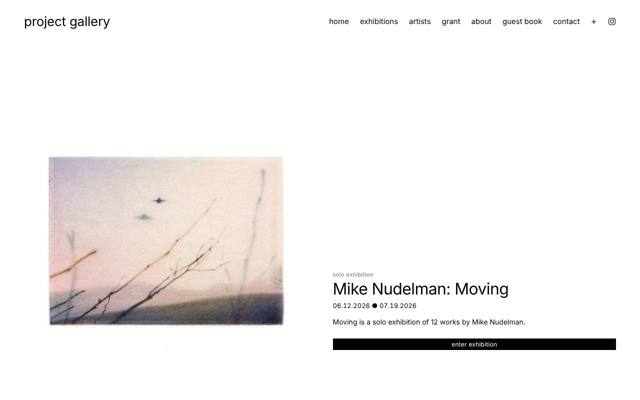
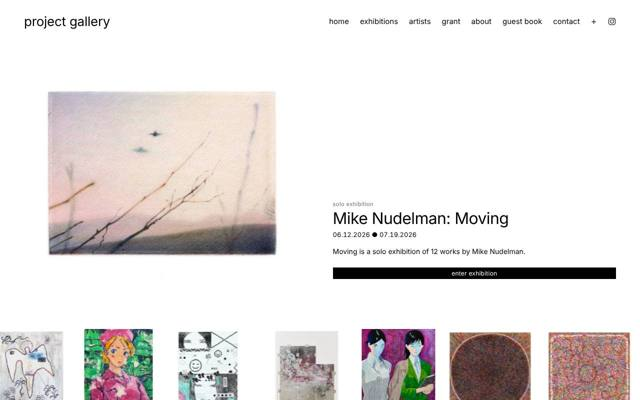
Exhibitions archive 2020-2025 (34 show cards with curators and artists) in a five-across grid; + turns to x on hover in the menu; collection tags each get their own colour
Claude-Session: https://claude.ai/code/session_01JDvyBS7JT6BmRY19jA3qLE

diff --git a/content.js b/content.js
@@ -196,12 +196,14 @@ const EXHIBITIONS_FEATURE = {
 //   kind:  "solo exhibition", "two-person exhibition" or "group exhibition"
 //   show:  the show's key in SHOWS if it has a page on this site (gives the little icons)
 //   link:  where "enter exhibition" goes ("#tdreade" for this site, or the old Squarespace address)
+//   note:  "curated by ..." / "juried by ..." (shown under the dates)
+//   image: the spotlight picture; leave "" for a text-only card until you add one
 //   artists: names for group shows, shown as "including artists ..."
 const SHOW_CARDS = {
   "tdreade": {
     kind: "solo exhibition",
     title: "TD Reade: cancel my prayer",
-    year: "2025",
+    year: "2025", note: "",
     dates: "10.05.2025 – 11.05.2025",
     image: "images/td-reade/heavy-misfortunes.jpg",
     description: "cancel my prayer features 12 original artworks from Melbourne based artist TD Reade. His paintings foreground figures caught within the choreography of social performance, where ordinary moments become sites of latent tension.",
@@ -219,6 +221,204 @@ const SHOW_CARDS = {
     link: "#mike-nudelman",
     show: "mike-nudelman",
     artists: []
+  },
+  "ryker-woodward": {
+    kind: "solo exhibition", title: "Ryker Woodward: Nostalgic Signifiers From Digital Realms", year: "2024", dates: "08.01.2024 – 09.15.2024", note: "",
+    image: "", description: "",
+    link: "https://project-gallery.com/ryker-woodward", show: "",
+    artists: []
+  },
+  "gitte-maria-moller": {
+    kind: "solo exhibition", title: "Gitte Maria Möller: Running away forever", year: "2024", dates: "05.23.2024 – 06.30.2024", note: "",
+    image: "", description: "",
+    link: "https://project-gallery.com/gitte-maria-moller", show: "",
+    artists: []
+  },
+  "lumierebelge": {
+    kind: "solo exhibition", title: "lumierebelge, lineage mayhem.", year: "2024", dates: "04.17.2024 – 05.22.2024", note: "",
+    image: "", description: "",
+    link: "https://project-gallery.com/lumierebelge", show: "",
+    artists: []
+  },
+  "tao-lin": {
+    kind: "solo exhibition", title: "Mandalas: Tao Lin", year: "2024", dates: "03.16.2024 – 04.16.2024", note: "",
+    image: "", description: "",
+    link: "https://project-gallery.com/tao-lin", show: "",
+    artists: []
+  },
+  "person-place-thing": {
+    kind: "group exhibition", title: "Person, Place, or Thing", year: "2024", dates: "02.01.2024 – 03.15.2024", note: "juried by Cynthia Cruz",
+    image: "", description: "",
+    link: "https://project-gallery.com/person-place-thing", show: "",
+    artists: ["Jennifer Amadeo-Holl", "Wai Yi Chung", "Megan Du", "Dimitra Gkoutzou", "Jiacun Li", "Keshawna Logan", "Andrew James McKay", "James Niwat Moore", "Sheila Rennick", "Christine Schmitt", "Olivia Springberg", "Reilly Stasienko", "Norah Stone", "Parker Lily Tuson-Morse", "Melissa Wallen", "minzhi zheng", "DW Zinsser"]
+  },
+  "chaeri-kim": {
+    kind: "solo exhibition", title: "Love, Light, Gravity: Chaeri Kim", year: "2023", dates: "12.19.2023 – 01.19.2024", note: "",
+    image: "", description: "",
+    link: "https://project-gallery.com/chaeri-kim", show: "",
+    artists: []
+  },
+  "grace-nkem": {
+    kind: "solo exhibition", title: "Grace Nkem: CLOWN WORLD", year: "2023", dates: "11.18.2023 – 12.18.2023", note: "",
+    image: "", description: "",
+    link: "https://project-gallery.com/grace-nkem", show: "",
+    artists: []
+  },
+  "nutsa-gogaladze": {
+    kind: "solo exhibition", title: "I walked a lot to arrive in this garden: Nutsa Gogaladze", year: "2023", dates: "10.17.2023 – 11.17.2023", note: "",
+    image: "", description: "",
+    link: "https://project-gallery.com/nutsa-gogaladze", show: "",
+    artists: []
+  },
+  "artist-curator": {
+    kind: "group exhibition", title: "Artist/Curator", year: "2023", dates: "09.08.2023 – 10.16.2023", note: "",
+    image: "", description: "",
+    link: "https://project-gallery.com/artist-curator", show: "",
+    artists: ["Karen Fitzgerald", "Cary Hulbert", "Casey Jex Smith", "Adam Liam Rose", "Cara Lynch", "Farah Mohammad", "Kellyann Monaghan", "Trinity Lester", "Libbi Ponce"]
+  },
+  "ara-hao": {
+    kind: "solo exhibition", title: "Nourish Life Anonymously: Ara Hao", year: "2023", dates: "08.07.2023 – 09.07.2023", note: "",
+    image: "", description: "",
+    link: "https://project-gallery.com/ara-hao", show: "",
+    artists: []
+  },
+  "inimitable": {
+    kind: "group exhibition", title: "Inimitable", year: "2023", dates: "06.30.2023 – 07.30.2023", note: "juried by Casey Jex Smith",
+    image: "", description: "",
+    link: "https://project-gallery.com/inimitable", show: "",
+    artists: ["Hanimal-Mario Alvarez", "Amelie Barnathan", "Jeffrey Beebe", "Darien Bird", "Caroline Blum", "Shea Chang", "Katya Labowe-Stoll", "Jiacun Li", "Emily Loughlin", "Anwar Mahdi", "carrie R", "Jenna Ransom", "Teh-Hsuan (Momo) Chen", "Jen Dwyer", "Jared Freschman", "Tim Furey", "Austin Joseph Gregory", "Marilyn Holsing", "Henry Rosenberg", "Alfred Rosenbluth", "Todd Stong", "Brian Uhl", "Mo Vleeshouwers", "Claire Downes Whitehurst", "DW Zinsser"]
+  },
+  "filip-lav": {
+    kind: "solo exhibition", title: "Gentle Doom: Filip Lav", year: "2023", dates: "06.01.2023 – 06.29.2023", note: "",
+    image: "", description: "",
+    link: "https://project-gallery.com/filip-lav", show: "",
+    artists: []
+  },
+  "hearts-of-palm": {
+    kind: "group exhibition", title: "Hearts of Palm", year: "2023", dates: "05.15.2023 – 06.15.2023", note: "",
+    image: "", description: "",
+    link: "https://project-gallery.com/hearts-of-palm", show: "",
+    artists: ["Ben Browne", "Keira Curwen", "Gabriella Grill", "Erik Hougen", "Cary Hulbert", "TianTian Lou", "Jeremy Ruiz", "Saloni Shah", "Tom Smith", "Sarika Sugla", "Orli Swergold"]
+  },
+  "neurosis": {
+    kind: "group exhibition", title: "Neurosis", year: "2023", dates: "01.15.2023 – 03.15.2023", note: "curated by Bethelihem Gebresilasie",
+    image: "", description: "",
+    link: "https://project-gallery.com/neurosis", show: "",
+    artists: ["Yerrie Choo", "Cecelia Condit", "Seth Cosford", "Erica Eyres", "Starkey Fossgreen", "Simon Floris", "Joana Azevedo Rodrigues", "Liev Sibilla", "Léa Tissot-Laura", "Anna Sougy", "Amber Tutwiler", "Klara Vertes"]
+  },
+  "first-note": {
+    kind: "group exhibition", title: "First Note", year: "2023", dates: "01.15.2023 – 03.15.2023", note: "juried by Faust Luo",
+    image: "", description: "",
+    link: "https://project-gallery.com/first-note", show: "",
+    artists: ["Hyoju Cheon", "Matt Coombs", "Misha Davydov", "Maria Haag", "Andy N Li", "Crystal Marshall", "Steven Pennett", "Sarah Sipling"]
+  },
+  "betwixt-and-between": {
+    kind: "group exhibition", title: "betwixt and between", year: "2022", dates: "11.01.2022 – 12.15.2022", note: "juried by Trinity Lester and Cary Hulbert",
+    image: "", description: "",
+    link: "https://project-gallery.com/betwixt-and-between", show: "",
+    artists: ["Jordin Alanis", "Santina Amato", "Katina Bitsicas", "Shelby Corso", "Vanezza Cruz", "Marilla Cubberley", "Julia Curran", "Daisy Diamond", "Jan Dickey", "John Brendan Guinan", "Zach Hill", "Peishan Huang", "Doi Kim", "Cydney M Lewis", "Michael Saunders", "Ayshia Taskin", "Andy Van Dinh", "Til Will", "Hayley Youngs", "Daniela Lucato", "Farrell Mason-Brown", "Casey Neumann", "Michelle Paterok", "Ophélie Paris", "Katrina Slavik", "Assunta Saulle"]
+  },
+  "unfolding-pattern": {
+    kind: "two-person exhibition", title: "Unfolding Pattern: Saloni Shah and Tiantian Lou", year: "2022", dates: "10.01.2022 – 11.30.2022", note: "",
+    image: "", description: "",
+    link: "https://project-gallery.com/unfolding-pattern", show: "",
+    artists: []
+  },
+  "new-light": {
+    kind: "group exhibition", title: "New Light", year: "2022", dates: "07.07.2022 – 08.31.2022", note: "curated by Mills Brown",
+    image: "", description: "",
+    link: "https://project-gallery.com/new-light", show: "",
+    artists: ["Andrea Bagdon", "MK Bailey", "Sarah Baldwin", "Asha Elana Casey", "Mandy Cooper", "Khadija Jahmila", "Katrina Jurjans", "Isabel Manalo", "Sarah Norman", "Jessica Rubin", "Julie-Ann Simpson", "Salomé Wu"]
+  },
+  "wet-dream": {
+    kind: "group exhibition", title: "wet dream", year: "2022", dates: "06.15.2022 – 07.15.2022", note: "curated by Libbi Ponce",
+    image: "", description: "",
+    link: "https://project-gallery.com/wet-dream", show: "",
+    artists: ["Rebecca Arp", "Basak Kilicbeyli", "Haley Darya Parsa", "Srishti Dass", "Yuquan Duan", "JB Fry", "Eriko Hattori", "Tiffany Heng Hui Lee", "Chris Horner", "Chris LaGow", "Marianne L Walker", "Moss YLOC"]
+  },
+  "syncretic": {
+    kind: "group exhibition", title: "Syncretic: Religion and Ritual in Diaspora", year: "2022", dates: "05.02.2022 – 06.30.2022", note: "curated by Dante Migone-Ojeda",
+    image: "", description: "",
+    link: "https://project-gallery.com/syncretic", show: "",
+    artists: ["Priscilla Aleman", "Ruhee Maknojia", "Dante Migone-Ojeda", "Shani Strand", "A young Yu"]
+  },
+  "splinters": {
+    kind: "group exhibition", title: "Splinters in the ongoing normal", year: "2022", dates: "03.15.2022 – 04.15.2022", note: "",
+    image: "", description: "",
+    link: "https://project-gallery.com/splinters-in-the-ongoing-normal", show: "",
+    artists: ["Aurora Abzug", "Louisa Armbrust", "Julia Baroni", "Emily Bartolone", "Katina Bitsicas", "Sunny Moxin Chen", "Annie Chen Ziyao", "Kelly Chuning", "Larkin Cook", "Ana Maria Farina", "Robyn A. Frank", "Pauline Galiana", "Kristi Gallup", "Sara Hess", "Megan Adams Irving", "Bonam Kim", "Christine Lee", "Em Miller", "Di Miranda", "Judith Mullen", "Aaron Nemec", "Megan Nugroho", "Ami Park", "Lily Prince", "PlantBotGenetics", "Abby Robinson", "Hulievych Serhii", "Malu Tan", "Siyuan Tan", "Theo Trotter", "Curtis Widem", "William Glaser Wilson", "Lizzie Zelter"]
+  },
+  "erika-shiba": {
+    kind: "solo exhibition", title: "Mentalscapes: Erika Shiba", year: "2022", dates: "03.03.2022 – 04.29.2022", note: "",
+    image: "", description: "",
+    link: "https://project-gallery.com/erika-shiba", show: "",
+    artists: []
+  },
+  "we-are-still-in-eden": {
+    kind: "group exhibition", title: "We Are Still in Eden", year: "2022", dates: "01.07.2022 – 02.28.2022", note: "curated by KellyAnn Monaghan",
+    image: "", description: "",
+    link: "https://project-gallery.com/we-are-still-in-eden", show: "",
+    artists: ["Morgan Adler", "Anne Canfield", "Laura Colomb", "Yun-Fei Ji", "Nicola López", "Laini Nemett", "Sarah Roche", "Hiro Sakaguchi", "Laura Von Rosk", "Virginia Wagner"]
+  },
+  "if-fluid-was-a-song": {
+    kind: "group exhibition", title: "If fluid was a song…", year: "2022", dates: "12.15.2021 – 01.15.2022", note: "curated by Adama Delphine Fawundu",
+    image: "", description: "",
+    link: "https://project-gallery.com/if-fluid-was-a-song", show: "",
+    artists: ["Nouran Husain Alhazmi", "Leslie Anne", "Paul Ayihawu", "Frank Boyce", "Kyle Choy", "Lisa A Fanning", "Jessica Parker Foley", "Katerina Ganchak", "Vinay Hira", "Ruth Jeyaveeran", "Fei Ji", "Saskia Kahn", "Lena Krashevka", "C. Pazia Mannella", "Ashley Mclean", "Aliyah Mickens", "James Morton", "Chantal Powell", "Phoenix Robles", "Cyle Warner"]
+  },
+  "time-wont-tell": {
+    kind: "group exhibition", title: "Time Won’t Tell", year: "2021", dates: "11.01.2021 – 12.30.2021", note: "curated by Farah Mohammad",
+    image: "", description: "",
+    link: "https://project-gallery.com/time-wont-tell", show: "",
+    artists: ["Jovita Alvares", "Ivana Carman", "Kevin Claiborne", "Noga Cohen", "Takuji Hamanaka", "Melissa Joseph", "Lucy Kim", "Ruhee Maknojia", "Cheryl Mukherji", "Luján Perez", "Hafsa Riaz", "Keli Safia Maksud", "Shahzia Sikander (LNCPS)"]
+  },
+  "spliced-energy": {
+    kind: "group exhibition", title: "Spliced Energy", year: "2021", dates: "09.01.2021 – 10.30.2021", note: "curated by Karen Fitzgerald",
+    image: "", description: "",
+    link: "https://project-gallery.com/spliced-energy", show: "",
+    artists: ["Deborah Barlow", "Daniel Berlin (Van Deb Editions)", "Ken Buhler (Van Deb Editions)", "Michael Dal Cerro", "Nancy Cohen (Van Deb Editions)", "Patricia Dahlman", "Caroline Golden", "Rachel Goldsmith", "Larry Rushing", "Kandi Spindler", "Priscilla Stadler", "Kathleen Velo", "Natalie Woodson", "Dudley Zopp", "Orestes Gonzalez", "Hannah Kerin", "Susan Knight", "Mahnoor Nasir Khan", "Saroj Kumar", "Mary Pinto", "Eleanor Rahim", "Winn Rea"]
+  },
+  "transcendental-states": {
+    kind: "group exhibition", title: "Transcendental States", year: "2021", dates: "09.15.2021 – 10.15.2021", note: "juried by Adam Liam Rose",
+    image: "", description: "",
+    link: "https://project-gallery.com/transcendental-states", show: "",
+    artists: ["Elliot Avis", "Loren Eiferman", "Jeong Hur", "Kieren Jeane", "Sidney Mullis", "Nola Parker", "Kelsey Skordal", "Chelsea Wrightson"]
+  },
+  "illuminated": {
+    kind: "group exhibition", title: "Illuminated", year: "2021", dates: "07.09.2021 – 08.30.2021", note: "curated by Trinity Lester and Cary Hulbert",
+    image: "", description: "",
+    link: "https://project-gallery.com/illuminated", show: "",
+    artists: ["Alina Birkner", "Isabel Cavenecia", "Jeffrey Dell", "Megan Foster", "Gyun Hur", "Seo Kim", "Lucy Lord Campana", "Jasmine Murrell", "Robert Rauschenberg (ULAE)", "Elizabeth Shull", "Sarah Sze (LNCPS)", "Catalina Viejo Lopez de Roda", "Paula Wilson"]
+  },
+  "people-places-things": {
+    kind: "group exhibition", title: "People Places Things", year: "2021", dates: "06.15.2021 – 07.15.2021", note: "juried by Samantha Rippner",
+    image: "", description: "",
+    link: "https://project-gallery.com/people-places-things", show: "",
+    artists: ["Adina Andrus", "Aharon B. Cohen", "Alex Hutton", "Alexandra Chiou", "Alexis Hill", "Anna Sorokina", "Ashley Houghton", "Bridey McGlynn", "Dalila Sanabria", "Danqi Cai", "Dante Migone-Ojeda", "David Murgio", "Deborah Druick", "Diane Pribojan", "Elizabeth Riley", "Ellen Weider", "Fábián Emőke", "Gary Cruz", "Morgan Rose Free", "Naho Taruishi", "Omar Reyna", "Rayden Lawrence", "Roberto Jackson Harrington", "Vy Trịnh", "William Glaser Wilson", "Hannah Duggan", "Heather Drayzen", "Heeseung Nam", "Hui Tian", "J Myszka Lewis", "Jennifer Joanou", "Julia Forrest", "Lee Miller", "Mike Dowley"]
+  },
+  "the-alternative-states": {
+    kind: "group exhibition", title: "The Alternative States", year: "2021", dates: "05.03.2021 – 06.30.2021", note: "curated by Arina Novak",
+    image: "", description: "",
+    link: "https://project-gallery.com/the-alternative-states", show: "",
+    artists: ["Amy Bravo", "Cecily Brown (LNCPS)", "Kirill Burygin", "Daria Denisova", "Alisa Gvozdeva", "Luis Gutierrez", "Eric Kogan", "Erica Mao", "Brittany Miller", "Lucía Rodríguez", "Alina Vinogradova", "Alexey Yakovlev", "Sofia Yalalova", "Marsel Yalalov", "Yuri Yuan"]
+  },
+  "multitudes": {
+    kind: "group exhibition", title: "Multitudes", year: "2021", dates: "03.01.2021 – 04.30.2021", note: "curated by Jade Hoyer",
+    image: "", description: "",
+    link: "https://project-gallery.com/multitudes", show: "",
+    artists: ["Paloma Barhaugh-Bordas", "Julie Buffalohead (Highpoint Editions)", "Andrea Carlson (Highpoint Editions)", "Aaron Coleman", "Zachary Carlisle Davidson", "Ellen Gallagher (Two Palms)", "Toba Khedoori (Gemini G.E.L.)", "Alison Saar (Tandem Press)", "Haley Takahashi"]
+  },
+  "eternal-flame": {
+    kind: "group exhibition", title: "Eternal Flame", year: "2021", dates: "01.01.2021 – 02.28.2021", note: "curated by Cara Lynch",
+    image: "", description: "",
+    link: "https://project-gallery.com/eternal-flame", show: "",
+    artists: ["Lauren Skelly Bailey", "Rachel M Barron", "Valeria Divinorum & Flavia Bertorello", "William Cordova (LNCPS)", "Joanna Cortez", "Rosemarie Fiore", "Carson Fox", "Josephine Halvorson", "Juan Hinojosa", "Sandy Williams IV", "Susanna Koetter", "Dante Migone-Ojeda", "Kellyann Monaghan", "Steve Reinke", "Rachel Stern"]
+  },
+  "in-the-cool-of-the-evening": {
+    kind: "group exhibition", title: "In the Cool of the Evening", year: "2020", dates: "10.30.2020 – 12.30.2020", note: "curated by Cary Hulbert and Trinity Lester",
+    image: "", description: "",
+    link: "https://project-gallery.com/in-the-cool-of-the-evening", show: "",
+    artists: ["Nathan Catlin", "Trenton Doyle Hancock", "Cara Lynch", "Erica Mao", "Lina Puerta", "Jennifer Schmidt", "Kiki Smith", "Craig Zammiello"]
   }
 };
 
@@ -242,7 +442,7 @@ const TICKER = [
 ];
 
 // THE ARCHIVE LIST under "exhibitions": card keys, newest first.
-const ARCHIVE_LIST = ["tdreade"];
+const ARCHIVE_LIST = ["tdreade", "ryker-woodward", "gitte-maria-moller", "lumierebelge", "tao-lin", "person-place-thing", "chaeri-kim", "grace-nkem", "nutsa-gogaladze", "artist-curator", "ara-hao", "inimitable", "filip-lav", "hearts-of-palm", "neurosis", "first-note", "betwixt-and-between", "unfolding-pattern", "new-light", "wet-dream", "syncretic", "splinters", "erika-shiba", "we-are-still-in-eden", "if-fluid-was-a-song", "time-wont-tell", "spliced-energy", "transcendental-states", "illuminated", "people-places-things", "the-alternative-states", "multitudes", "eternal-flame", "in-the-cool-of-the-evening"];
 
 // NEWSLETTER: offered after someone signs the guest book.
 // Paste the sign-up form address from your newsletter service here when you have one.

diff --git a/index.html b/index.html
@@ -36,7 +36,11 @@ nav { display: flex; align-items: center; gap: 22px; }
 nav a { font-size: 15px; line-height: 1; transition: text-shadow .2s; }
 nav a.plus:hover { text-shadow: var(--glow); }
 nav > a.typed-link { display: inline-block; text-align: left; white-space: nowrap; }
-nav a.plus { font-size: 19px; font-weight: 300; }
+nav a.plus { font-size: 19px; font-weight: 300; display: inline-grid; }
+nav a.plus span { grid-area: 1 / 1; text-align: center; transition: opacity .15s; }
+nav a.plus .px-x { opacity: 0; }
+nav a.plus:hover .px-plus, nav a.plus:focus-visible .px-plus { opacity: 0; }
+nav a.plus:hover .px-x, nav a.plus:focus-visible .px-x { opacity: 1; }
 .ig { display: inline-flex; align-items: center; }
 .ig img { width: 16px; height: 16px; display: block; }
 .ig:hover img { filter: drop-shadow(0 0 3px rgba(0, 0, 0, 0.5)); }
@@ -253,16 +257,21 @@ body.arriving #view-show { animation: arrive 1.4s cubic-bezier(.16, .8, .3, 1) b
 @media (prefers-reduced-motion: reduce) { .ticker { overflow-x: auto; } .ticker-track { animation: none; } }
 .archive-wrap { margin-top: clamp(72px, 10vh, 120px); }
 .archive-head { font-size: 13px; }
-.arch-year { display: grid; grid-template-columns: 140px 1fr; gap: 24px; padding: 18px 0; border-bottom: 1px solid #e6e6e6; }
+.arch-year { display: grid; grid-template-columns: 90px 1fr; gap: 24px; padding: 18px 0; border-bottom: 1px solid #e6e6e6; }
 .arch-year > span { font-size: 13px; font-variant-numeric: tabular-nums; }
-.arch-items { display: grid; gap: 14px; }
-.arch-item { background: none; border: 0; padding: 0; text-align: left; font-family: var(--font); color: var(--ink); cursor: pointer; display: grid; gap: 2px; }
-.arch-item span:first-child { font-size: 15px; transition: text-shadow .2s; }
+.arch-items { display: grid; grid-template-columns: repeat(5, minmax(0, 1fr)); gap: 22px 24px; align-items: start; }
+.arch-item { background: none; border: 0; padding: 0; text-align: left; min-width: 0; overflow-wrap: anywhere; font-family: var(--font); color: var(--ink); cursor: pointer; display: grid; gap: 2px; }
+.arch-item span:first-child { font-size: 14px; line-height: 1.3; transition: text-shadow .2s; }
 .arch-item span:last-child { font-size: 12px; color: var(--muted); font-variant-numeric: tabular-nums; }
 .arch-item:hover span:first-child { text-shadow: var(--glow); }
 /* show cards: spotlight image takes most of the card */
 .card.wide { grid-template-columns: 1.45fr 1fr; width: min(1100px, 100%); }
 .card.wide .card-img img { max-height: calc(100vh - 140px); object-fit: contain; object-position: left center; }
+.card-note { margin: -4px 0 10px; font-size: 12px; color: var(--muted); }
+.card-note:empty { display: none; }
+.card.noimg { grid-template-columns: 1fr; width: min(620px, 100%); }
+.card.noimg .card-img { display: none; }
+.card.noimg .card-text { padding-top: 12px; }
 .card-icons { display: flex; flex-wrap: wrap; gap: 6px; margin-top: 14px; }
 .card-icons:empty { display: none; }
 .card-icons img { width: 28px; height: 28px; object-fit: cover; display: block; }
@@ -302,7 +311,8 @@ footer a:hover { text-shadow: var(--glow); }
   .gb-form, .gb-fields { grid-template-columns: 1fr; }
   .gb-top { flex-direction: column; align-items: flex-start; }
   .ex-feature, .card.wide { grid-template-columns: 1fr; }
-  .arch-year { grid-template-columns: 70px 1fr; }
+  .arch-year { grid-template-columns: 1fr; gap: 12px; }
+  .arch-items { grid-template-columns: repeat(2, minmax(0, 1fr)); }
   .pair { grid-template-columns: 1fr; padding: 0; gap: 64px; }
   .work.right .work-image, .work.right .work-caption { grid-column: auto; grid-row: auto; }
   .works { gap: 96px; }
@@ -323,7 +333,7 @@ footer a:hover { text-shadow: var(--glow); }
     <a href="#about" data-view="about">about</a>
     <a href="#guestbook" data-view="guestbook">guest book</a>
     <a href="#contact" data-view="contact">contact</a>
-    <a href="#collection" class="plus" data-view="collection" aria-label="my collection" title="my collection">+</a>
+    <a href="#collection" class="plus" data-view="collection" aria-label="my collection" title="my collection"><span class="px-plus">+</span><span class="px-x" aria-hidden="true">×</span></a>
     <a class="ig" id="ig" href="https://www.instagram.com/projectgallery/" target="_blank" rel="noopener" aria-label="project gallery on Instagram"></a>
   </nav>
 </header>
@@ -454,6 +464,7 @@ footer a:hover { text-shadow: var(--glow); }
       <p class="card-label" id="card-label">solo exhibition</p>
       <h2 class="show-title" id="card-title"></h2>
       <p class="dates" id="card-dates"></p>
+      <p class="card-note" id="card-note"></p>
       <p class="desc" id="card-desc"></p>
       <a class="enter" id="card-enter">enter exhibition</a>
       <div class="card-icons" id="card-icons"></div>
@@ -556,6 +567,8 @@ function renderExhibitionsPage() {
   // archive list by year
   const byYear = new Map();
   ARCHIVE_LIST.forEach(k => { const c = SHOW_CARDS[k]; if (!c) return; if (!byYear.has(c.year)) byYear.set(c.year, []); byYear.get(c.year).push(k); });
+  const start = k => { const m = /(\d{2})\.(\d{2})\.(\d{4})/.exec(SHOW_CARDS[k].dates || ""); return m ? m[3] + m[1] + m[2] : ""; };
+  byYear.forEach(keys => keys.sort((a, b) => start(b).localeCompare(start(a))));
   document.getElementById("ex-archive").innerHTML = [...byYear].sort((a, b) => b[0] - a[0]).map(([y, keys]) =>
     `<div class="arch-year"><span>${esc(y)}</span><div class="arch-items">${keys.map(k =>
       `<button class="arch-item" data-card="${esc(k)}"><span>${esc(SHOW_CARDS[k].title)}</span><span>${esc(SHOW_CARDS[k].dates)}</span></button>`).join("")}</div></div>`).join("");
@@ -565,7 +578,7 @@ function openShowCard(key) {
   const c = SHOW_CARDS[key]; if (!c) return;
   const sh = SHOWS[c.show];
   openCard({
-    label: c.kind, image: c.image, title: c.title, dates: c.dates, description: c.description, link: c.link,
+    label: c.kind, image: c.image, title: c.title, dates: c.dates, note: c.note, description: c.description, link: c.link,
     wide: true,
     icons: sh ? sh.works.map(w => w.image) : [],
     artists: c.artists || []
@@ -699,35 +712,34 @@ function workInfo(saved) {
   const w = SHOWS[key] && SHOWS[key].works[Number(idx)];
   return w ? { ...saved, ...w, artist: SHOWS[key].artist, showTitle: SHOWS[key].title, status: SHOWS[key].status || "past show" } : saved;
 }
-// pick a colour from each saved picture, kept dark enough to read
-const colourCache = {};
-function pickColour(src) {
-  if (colourCache[src]) return Promise.resolve(colourCache[src]);
+// pick several colours from each saved picture (kept dark enough to read)
+const paletteCache = {};
+function pickColours(src) {
+  if (paletteCache[src]) return Promise.resolve(paletteCache[src]);
   return new Promise(res => {
     const im = new Image();
     im.onload = () => {
       try {
-        const cv = document.createElement("canvas"); cv.width = cv.height = 32;
-        const cx = cv.getContext("2d"); cx.drawImage(im, 0, 0, 32, 32);
-        const d = cx.getImageData(0, 0, 32, 32).data;
-        let best = null, bestScore = -1;
+        const cv = document.createElement("canvas"); cv.width = cv.height = 40;
+        const cx = cv.getContext("2d"); cx.drawImage(im, 0, 0, 40, 40);
+        const d = cx.getImageData(0, 0, 40, 40).data, bins = {};
         for (let i = 0; i < d.length; i += 4) {
           const r = d[i] / 255, g = d[i + 1] / 255, b = d[i + 2] / 255;
-          const mx = Math.max(r, g, b), mn = Math.min(r, g, b), l = (mx + mn) / 2;
-          const sat = mx === mn ? 0 : (mx - mn) / (1 - Math.abs(2 * l - 1));
-          const score = sat * (1 - Math.abs(l - 0.5));
-          if (score > bestScore) { bestScore = score; best = [r, g, b]; }
+          const mx = Math.max(r, g, b), mn = Math.min(r, g, b), l = (mx + mn) / 2, dd = mx - mn;
+          if (!dd) continue;
+          const sat = dd / (1 - Math.abs(2 * l - 1));
+          if (sat < 0.25 || l < 0.12 || l > 0.9) continue;
+          let h = mx === r ? ((g - b) / dd) % 6 : mx === g ? (b - r) / dd + 2 : (r - g) / dd + 4; h = (h * 60 + 360) % 360;
+          const bin = Math.round(h / 24);                     // 15 hue families
+          bins[bin] = bins[bin] || { n: 0, h: 0, s: 0 };
+          bins[bin].n += sat; bins[bin].h += h * sat; bins[bin].s += sat * sat;
         }
-        // convert to hsl and hold lightness in a readable range
-        const [r, g, b] = best, mx = Math.max(r, g, b), mn = Math.min(r, g, b);
-        let h = 0; const l = (mx + mn) / 2, dd = mx - mn;
-        if (dd) { h = mx === r ? ((g - b) / dd) % 6 : mx === g ? (b - r) / dd + 2 : (r - g) / dd + 4; h *= 60; if (h < 0) h += 360; }
-        const sat = dd ? Math.min(0.85, Math.max(0.45, dd / (1 - Math.abs(2 * l - 1)))) : 0;
-        colourCache[src] = sat ? `hsl(${Math.round(h)}, ${Math.round(sat * 100)}%, ${Math.round(Math.min(0.42, Math.max(0.3, l)) * 100)}%)` : "var(--accent)";
-      } catch (e) { colourCache[src] = "var(--accent)"; }
-      res(colourCache[src]);
+        paletteCache[src] = Object.values(bins).sort((x, y) => y.n - x.n).slice(0, 4)
+          .map(v => `hsl(${Math.round(v.h / v.n)}, ${Math.round(Math.min(.85, Math.max(.45, v.s / v.n)) * 100)}%, 38%)`);
+      } catch (e) { paletteCache[src] = []; }
+      res(paletteCache[src]);
     };
-    im.onerror = () => res("var(--accent)");
+    im.onerror = () => res([]);
     im.src = src;
   });
 }
@@ -749,8 +761,12 @@ function renderCollection() {
   const tags = ["all", ...types.map(t => t + "s"), ...years, ...statuses, ...(all.some(w => w.forSale) ? ["for sale"] : [])];
   if (!tags.includes(collectionFilter)) collectionFilter = "all";
   tagsEl.innerHTML = tags.map(t => `<button class="tag${t === collectionFilter ? " on" : ""}" data-tag="${esc(t)}">${esc(t)}</button>`).join("");
-  Promise.all(all.map(w => pickColour(w.image))).then(cols => {
-    tagsEl.querySelectorAll(".tag").forEach((b, i) => b.style.setProperty("--tag", cols[i % cols.length] || "var(--accent)"));
+  Promise.all(all.map(w => pickColours(w.image))).then(lists => {
+    // take colours in turn from each saved work so every tag gets its own
+    const pool = [], hues = [];
+    const far = h => hues.every(x => Math.min(Math.abs(x - h), 360 - Math.abs(x - h)) >= 28);
+    for (let r = 0; r < 4; r++) lists.forEach(l => { const c = l[r]; if (!c) return; const h = Number(c.slice(4, c.indexOf(","))); if (far(h)) { hues.push(h); pool.push(c); } });
+    tagsEl.querySelectorAll(".tag").forEach((b, i) => b.style.setProperty("--tag", pool.length ? pool[i % pool.length] : "var(--accent)"));
   });
   tagsEl.querySelectorAll(".tag").forEach(b => b.addEventListener("click", () => { collectionFilter = b.dataset.tag; renderCollection(); }));
 
@@ -910,9 +926,12 @@ function openCard(c) {
   document.getElementById("card-title").textContent = c.title || "";
   document.getElementById("card-dates").textContent = c.dates || "";
   document.getElementById("card-desc").textContent = c.description || "";
-  document.querySelector("#card-backdrop .card").classList.toggle("wide", !!c.wide);
+  document.querySelector("#card-backdrop .card").classList.toggle("wide", !!c.wide && !!c.image);
+  document.querySelector("#card-backdrop .card").classList.toggle("noimg", !c.image);
+  document.getElementById("card-note").textContent = c.note || "";
   document.getElementById("card-icons").innerHTML = (c.icons || []).slice(0, 16).map(src => `<img src="${esc(src)}" alt="" loading="lazy">`).join("");
   document.getElementById("card-artists").textContent = (c.artists && c.artists.length) ? "including artists " + c.artists.join(", ") : "";
+  document.getElementById("card-enter").textContent = /^https?:/.test(c.link || "") ? "enter exhibition ↗" : "enter exhibition";
   const enter = document.getElementById("card-enter");
   enter.hidden = !c.link;
   enter.href = c.link || "#";
